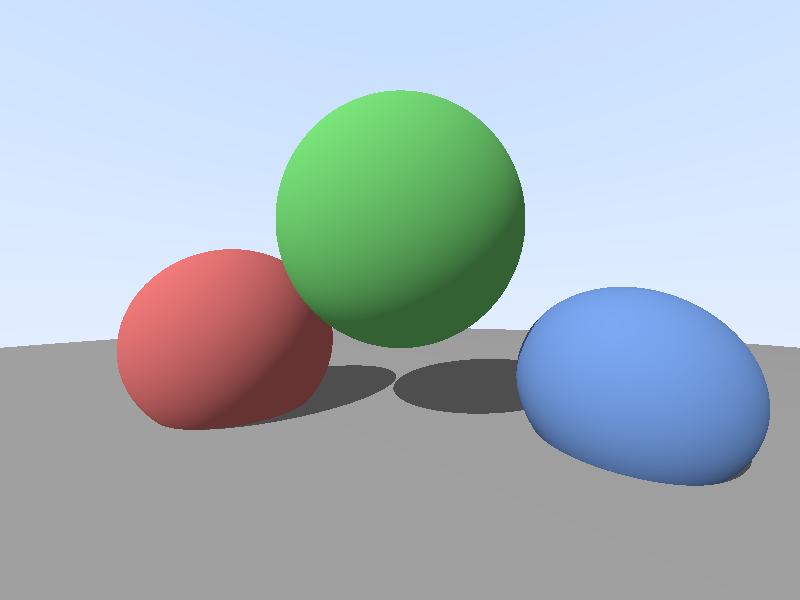
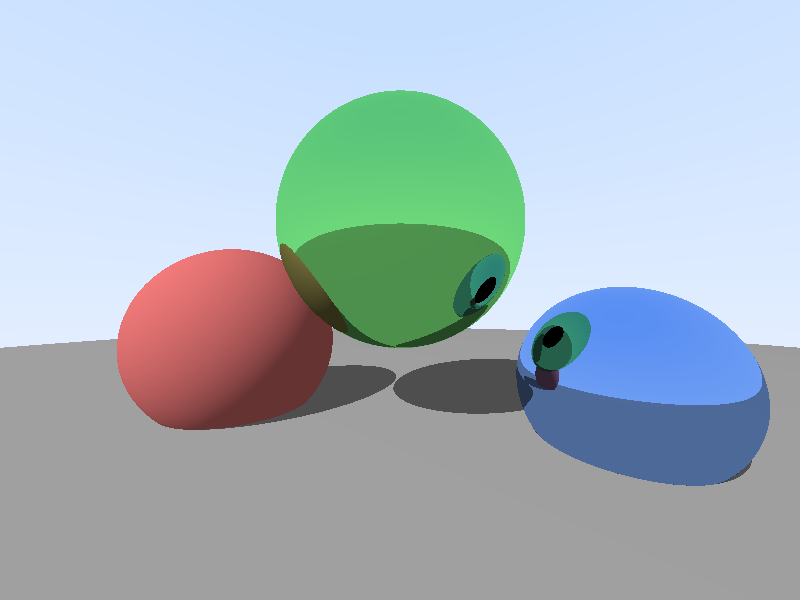
added material and reflection

Changed region(s): [[0.625, 0.48, 0.9688, 0.81], [0.3438, 0.18, 0.6562, 0.6], [0.375, 0.15, 0.5312, 0.24]]

diff --git a/examples/png_spheres.rs b/examples/png_spheres.rs
@@ -5,7 +5,7 @@
 use image::{Rgba, RgbaImage};
 use rust_gpu_rendering::colors as palette;
 use rust_gpu_rendering::math::{Color, Point3, Ray, Vec3};
-use rust_gpu_rendering::scene::{Camera, Sphere};
+use rust_gpu_rendering::scene::{Camera, Material, Sphere};
 
 fn main() {
     let width = 800;
@@ -16,11 +16,14 @@ fn main() {
     let light_dir = Vec3::new(-0.5, 0.7, 0.6).normalized();
 
     let spheres = [
-        // Giant sphere far below = ground
-        Sphere::new(Point3::new(0.0, -100.5, -1.0), 100.0, palette::GRAY),
-        Sphere::new(Point3::new(-0.8, -0.2, -1.5), 0.45, palette::RED),
-        Sphere::new(Point3::new( 0.0,  0.3, -1.3), 0.50, palette::GREEN),
-        Sphere::new(Point3::new( 0.8, -0.3, -1.1), 0.35, palette::BLUE),
+        // Ground 
+        Sphere::diffuse(Point3::new(0.0, -100.5, -1.0), 100.0, palette::GRAY),
+        // Left: Matte Red
+        Sphere::diffuse(Point3::new(-0.8, -0.2, -1.5), 0.45, palette::RED),
+        // Center: Shiny Green Metal
+        Sphere::metal(Point3::new(0.0, 0.3, -1.3), 0.50, palette::GREEN, 0.0),
+        // Right: Shiny Blue Metal
+        Sphere::metal(Point3::new(0.8, -0.3, -1.1), 0.35, palette::BLUE, 0.0),
     ];
 
     let mut img = RgbaImage::new(width, height);
@@ -43,51 +46,76 @@ fn main() {
     println!("Saved output.png");
 }
 
-fn shade_pixel(ray: &Ray, spheres: &[Sphere], light_dir: Vec3) -> Color {
-    // 1. Find the closest hit
-    let mut closest_t = f32::INFINITY;
-    let mut hit_sphere: Option<&Sphere> = None;
+fn shade_pixel(initial_ray: &Ray, spheres: &[Sphere], light_dir: Vec3) -> Color {
+    let mut ray = *initial_ray;
+    let mut final_color = Color::zero();
+    
+    // Multiplier tracks the "energy" the ray carries as it bounces.
+    // Starts at pure white (1.0, 1.0, 1.0).
+    let mut multiplier = Color::one(); 
 
-    for sphere in spheres {
-        if let Some(t) = sphere.hit(ray) {
-            if t < closest_t {
-                closest_t = t;
-                hit_sphere = Some(sphere);
+    // Limit bounces to prevent infinite loops (e.g., two mirrors facing each other)
+    for _bounce in 0..3 { 
+        let hit = trace_ray(&ray, spheres);
+
+        let Some((sphere, hit_point, normal)) = hit else {
+            // Missed everything -> Sky
+            final_color = final_color + multiplier * sky_color(&ray);
+            break;
+        };
+
+        match sphere.material {
+            Material::Diffuse { albedo } => {
+                // Diffuse objects absorb the ray after calculating direct light & shadows
+                let diffuse = normal.dot(light_dir).max(0.0);
+                
+                // Nudge the shadow ray origin slightly along the normal to prevent self-intersection
+                let shadow_ray = Ray::new(hit_point + normal * Sphere::EPSILON, light_dir);
+                let in_shadow = diffuse > 0.0
+                    && spheres.iter().any(|s| s.hit_after(&shadow_ray, Sphere::EPSILON).is_some());
+
+                let ambient = 0.15;
+                let light_intensity = if in_shadow { ambient } else { ambient + (1.0 - ambient) * diffuse };
+
+                final_color = final_color + multiplier * (albedo * light_intensity);
+                break; // Ray stops here
+            }
+            Material::Metal { albedo, fuzz: _ } => {
+                // Metal objects bounce the ray!
+                // We nudge the origin by EPSILON along the normal to prevent self-intersection
+                let bounce_origin = hit_point + normal * Sphere::EPSILON;
+                let bounce_dir = ray.direction.reflect(normal);
+                
+                ray = Ray::new(bounce_origin, bounce_dir);
+                
+                // The metal tints the reflected light (e.g., gold tints reflections yellow)
+                multiplier = multiplier * albedo;
+                // The loop continues to the next bounce!
             }
         }
     }
-
-    // 2. If we hit a sphere, shade it
-    if let Some(sphere) = hit_sphere {
-        let hit_point = ray.at(closest_t);
-        let normal = (hit_point - sphere.center).normalized();
-
-        // Lambertian diffuse lighting
-        let diffuse = normal.dot(light_dir).max(0.0);
-
-        // Shadow ray: from the hit point toward the light.
-        // If ANY sphere blocks it, the point is in shadow.
-        let shadow_ray = Ray::new(hit_point, light_dir);
-        let in_shadow = diffuse > 0.0
-            && spheres
-                .iter()
-                .any(|s| s.hit_after(&shadow_ray, Sphere::EPSILON).is_some());
-
-        let ambient = 0.15;
-        let light_intensity = if in_shadow {
-            ambient // in shadow: ambient only
-        } else {
-            ambient + (1.0 - ambient) * diffuse
-        };
-
-        return sphere.albedo * light_intensity;
-    }
-
-    // 3. If we missed everything, draw the sky
-    sky_color(ray)
+    final_color
 }
 
-/// Smooth gradient based on the ray's Y direction.
+/// Helper to find the closest hit in the scene.
+/// Notice we use `hit_after(ray, EPSILON)` for ALL rays now (primary, shadow, and bounce).
+fn trace_ray<'a>(ray: &Ray, spheres: &'a [Sphere]) -> Option<(&'a Sphere, Point3, Vec3)> {
+    let mut closest_t = f32::INFINITY;
+    let mut hit_data = None;
+
+    for sphere in spheres {
+        if let Some(t) = sphere.hit_after(ray, Sphere::EPSILON) {
+            if t < closest_t {
+                closest_t = t;
+                let point = ray.at(t);
+                let normal = (point - sphere.center).normalized();
+                hit_data = Some((sphere, point, normal));
+            }
+        }
+    }
+    hit_data
+}
+
 fn sky_color(ray: &Ray) -> Color {
     let t = 0.5 * (ray.direction.y + 1.0);
     (1.0 - t) * palette::SKY_HORIZON + t * palette::SKY_TOP

diff --git a/src/scene.rs b/src/scene.rs
@@ -3,6 +3,18 @@
 use crate::math::{Color, Point3, Ray, Vec3};
 
 // ==========================================
+// Materials
+// ==========================================
+
+#[derive(Debug, Clone, Copy, PartialEq)]
+pub enum Material {
+    /// Matte objects (like our ground and red sphere)
+    Diffuse { albedo: Color },
+    /// Shiny objects. `fuzz` will be used later for rough/brushed metal.
+    Metal { albedo: Color, fuzz: f32 },
+}
+
+// ==========================================
 // Sphere
 // ==========================================
 
@@ -10,7 +22,7 @@ use crate::math::{Color, Point3, Ray, Vec3};
 pub struct Sphere {
     pub center: Point3,
     pub radius: f32,
-    pub albedo: Color,
+    pub material: Material,
 }
 
 impl Sphere {
@@ -19,15 +31,26 @@ impl Sphere {
     /// itself due to floating-point rounding errors).
     pub const EPSILON: f32 = 1e-4;
 
-    pub fn new(center: Point3, radius: f32, albedo: Color) -> Self {
-        Self {
-            center,
-            radius,
-            albedo,
+    // --- Convenience Constructors ---
+    
+    pub fn diffuse(center: Point3, radius: f32, albedo: Color) -> Self {
+        Self { 
+            center, 
+            radius, 
+            material: Material::Diffuse { albedo } 
         }
     }
 
-    /// Returns the closest hit with t > 0, if any.
+    pub fn metal(center: Point3, radius: f32, albedo: Color, fuzz: f32) -> Self {
+        Self { 
+            center, 
+            radius, 
+            material: Material::Metal { albedo, fuzz } 
+        }
+    }
+
+    // --- Intersection Math (Unchanged) ---
+
     pub fn hit(&self, ray: &Ray) -> Option<f32> {
         self.hit_after(ray, 0.0)
     }
@@ -98,7 +121,7 @@ mod tests {
 
     #[test]
     fn ray_hits_sphere_in_front() {
-        let s = Sphere::new(
+        let s = Sphere::diffuse(
             Point3::new(0.0, 0.0, -3.0),
             1.0,
             Color::new(1.0, 0.0, 0.0),
@@ -110,7 +133,7 @@ mod tests {
 
     #[test]
     fn ray_misses_sphere() {
-        let s = Sphere::new(
+        let s = Sphere::diffuse(
             Point3::new(5.0, 0.0, -3.0),
             1.0,
             Color::new(0.0, 1.0, 0.0),
@@ -121,7 +144,7 @@ mod tests {
 
     #[test]
     fn sphere_behind_camera_is_ignored() {
-        let s = Sphere::new(
+        let s = Sphere::diffuse(
             Point3::new(0.0, 0.0, 3.0),
             1.0,
             Color::new(0.0, 0.0, 1.0),

diff --git a/src/math.rs b/src/math.rs
@@ -71,6 +71,13 @@ impl Vec3 {
         let s = 1e-8;
         self.x.abs() < s && self.y.abs() < s && self.z.abs() < s
     }
+
+    /// Returns the reflection of this vector bouncing off a surface with the given normal.
+    /// Assumes `normal` is normalized.
+    #[inline]
+    pub fn reflect(self, normal: Vec3) -> Vec3 {
+        self - 2.0 * self.dot(normal) * normal
+    }
 }
 
 
@@ -184,5 +191,32 @@ mod tests {
     fn test_ray_at() {
         let r = Ray::new(Point3::new(0.0, 0.0, 0.0), Vec3::new(1.0, 2.0, 3.0));
         assert_eq!(r.at(2.0), Point3::new(2.0, 4.0, 6.0));
+    }
+
+        #[test]
+    fn test_reflect_straight_on() {
+        // A ray going straight down (-Y) hitting a floor with normal (+Y)
+        // should bounce straight back up (+Y).
+        let v = Vec3::new(0.0, -1.0, 0.0);
+        let n = Vec3::new(0.0, 1.0, 0.0);
+        assert_eq!(v.reflect(n), Vec3::new(0.0, 1.0, 0.0));
+    }
+
+    #[test]
+    fn test_reflect_45_degrees() {
+        // A ray coming down and right (1, -1) hitting a flat floor (0, 1)
+        // should bounce up and right (1, 1).
+        let v = Vec3::new(1.0, -1.0, 0.0);
+        let n = Vec3::new(0.0, 1.0, 0.0);
+        assert_eq!(v.reflect(n), Vec3::new(1.0, 1.0, 0.0));
+    }
+
+    #[test]
+    fn test_reflect_arbitrary_angle() {
+        // Ray: (2, -1, 0). Normal: (0, 1, 0).
+        // V·N = -1. R = (2,-1,0) - 2*(-1)*(0,1,0) = (2,-1,0) + (0,2,0) = (2,1,0).
+        let v = Vec3::new(2.0, -1.0, 0.0);
+        let n = Vec3::new(0.0, 1.0, 0.0);
+        assert_eq!(v.reflect(n), Vec3::new(2.0, 1.0, 0.0));
     }
 }

diff --git a/examples/ascii_spheres.rs b/examples/ascii_spheres.rs
@@ -17,9 +17,9 @@ fn main() {
 
     // The scene: just an array of pure geometry
     let spheres = [
-        Sphere::new(Point3::new(-0.7, -0.25, -1.5), 0.45, palette::WHITE),
-        Sphere::new(Point3::new( 0.0,  0.25, -1.3), 0.40, palette::WHITE),
-        Sphere::new(Point3::new( 0.7, -0.30, -1.1), 0.30, palette::WHITE),
+        Sphere::diffuse(Point3::new(-0.7, -0.25, -1.5), 0.45, palette::WHITE),
+        Sphere::diffuse(Point3::new( 0.0,  0.25, -1.3), 0.40, palette::WHITE),
+        Sphere::diffuse(Point3::new( 0.7, -0.30, -1.1), 0.30, palette::WHITE),
     ];
 
     for y in 0..height {

diff --git a/examples/ascii_sphere.rs b/examples/ascii_sphere.rs
@@ -15,7 +15,7 @@ fn main() {
 
     // Scene setup using our new library types!
     let camera = Camera::new(Point3::zero(), aspect_ratio);
-    let sphere = Sphere::new(Point3::new(0.0, 0.0, -1.0), 0.5, palette::WHITE);
+    let sphere = Sphere::diffuse(Point3::new(0.0, 0.0, -1.0), 0.5, palette::WHITE);
     let light_dir = Vec3::new(-0.5, 0.7, 0.6).normalized();
 
     for y in 0..height {

diff --git a/README.md b/README.md
@@ -182,7 +182,7 @@ Finally, `shade` is mapped onto the ASCII ramp ` .:-=+*#%@`.
 - [x] Sky gradient
 - [x] Ground sphere + shadow rays
 - [x] Gamma correction
-- [ ] Metal and more materials (`Vec3::reflect`)
+- [x] Metal and more materials (`Vec3::reflect`)
 
 ### Phase 3 — CPU path-tracing basics
 - [ ] Random sampling: anti-aliasing, soft shadows
